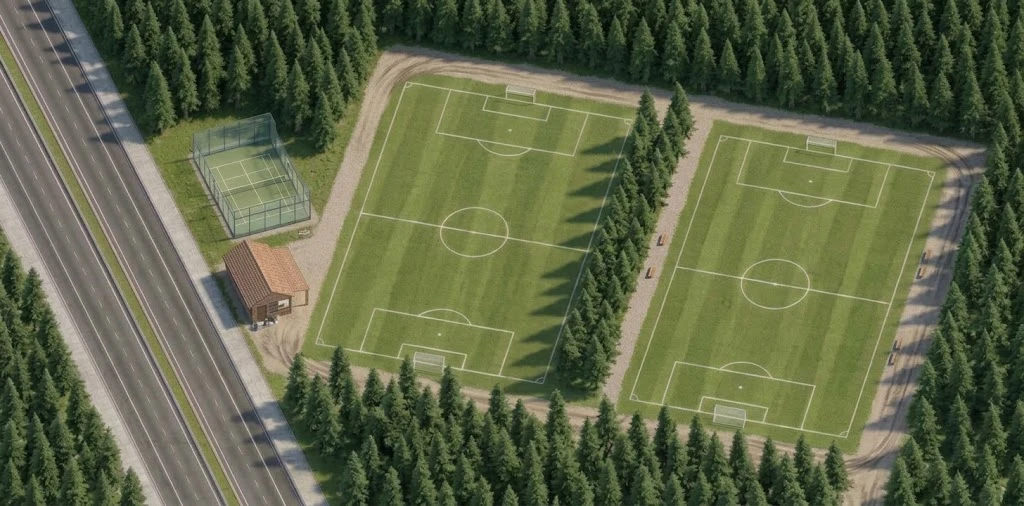
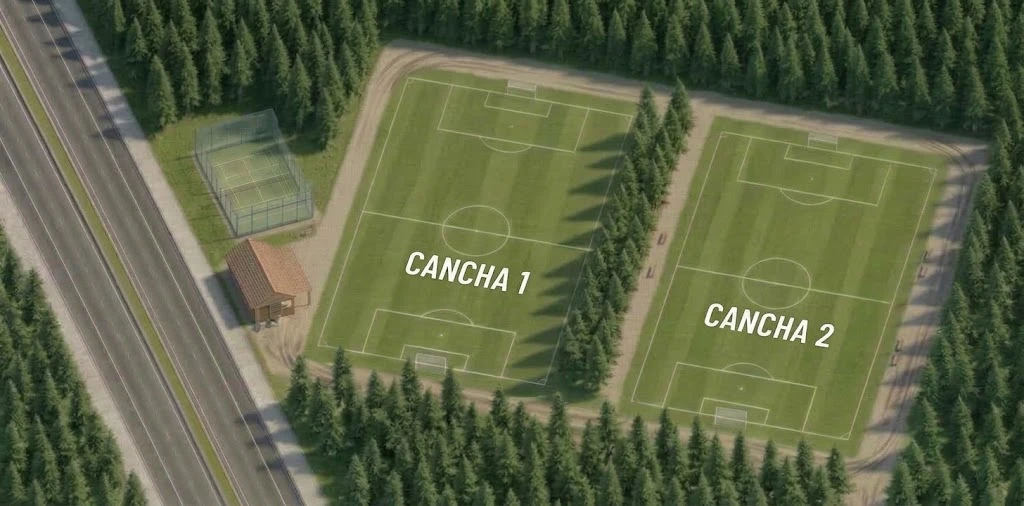
Simplificar mapa del complejo: texto de Cancha 1/2 en la imagen, sin chips
Claude-Session: https://claude.ai/code/session_01T1yuqekFoWnX7R3AsMD1Bf

diff --git a/frontend/src/styles.css b/frontend/src/styles.css
@@ -1284,19 +1284,12 @@ input[type="date"], input[type="time"] { font-family: inherit; color: var(--p-tx
   font-size: 0.62rem; letter-spacing: 0.07em; text-transform: uppercase; color: var(--s-oro-300);
 }
 
-/* mapa ilustrado del complejo, solo celular (debajo del texto "Abrimos...") */
-.mapa-complejo { display: none; }
-.mapa-complejo-tag {
-  position: absolute; transform: translate(-50%, -50%);
-  font-family: var(--s-texto); font-weight: 700; font-size: 0.62rem;
-  letter-spacing: 0.04em; text-transform: uppercase; white-space: nowrap;
-  color: var(--s-cal); background: rgba(15, 36, 54, 0.82);
-  padding: 4px 9px; border-radius: 999px; border: 1px solid rgba(242, 193, 78, 0.35);
+/* mapa ilustrado del complejo (Cancha 1 / Cancha 2), mobile y desktop */
+.mapa-complejo {
+  margin: 14px 0 0; border-radius: 14px; overflow: hidden;
+  border: 1px solid var(--s-linea-fria);
 }
-.mapa-complejo-tag--grande {
-  font-family: var(--s-titulo); font-weight: 600; font-size: 0.85rem;
-  letter-spacing: 0; text-transform: none; padding: 5px 12px;
-}
+.mapa-complejo img { display: block; width: 100%; height: auto; }
 
 @media (max-width: 940px) {
   .board-cols { grid-template-columns: 1fr; gap: 26px; }
@@ -1307,11 +1300,6 @@ input[type="date"], input[type="time"] { font-family: inherit; color: var(--p-tx
     display: block; position: relative; margin: 0 0 18px;
     border-radius: 14px; overflow: hidden; border: 1px solid var(--s-linea-fria);
   }
-  .mapa-complejo {
-    display: block; position: relative; margin: 14px 0 0;
-    border-radius: 14px; overflow: hidden; border: 1px solid var(--s-linea-fria);
-  }
-  .mapa-complejo img { display: block; width: 100%; height: auto; }
 }
 
 /* selector de canchas -> pills */

diff --git a/frontend/src/components/site/MapaComplejo.jsx b/frontend/src/components/site/MapaComplejo.jsx
@@ -1,27 +1,11 @@
-// Mapa ilustrado del complejo (pádel, cantina, cancha 1 y 2) para celular,
-// debajo del texto de "Abrimos martes, miércoles y jueves...". Solo mobile,
-// ver .mapa-complejo en styles.css.
-
-const LUGARES = [
-  { nombre: 'Pádel', left: '22%', top: '33%' },
-  { nombre: 'Cantina', left: '27%', top: '58%' },
-  { nombre: 'Cancha 1', left: '40%', top: '46%', grande: true },
-  { nombre: 'Cancha 2', left: '78%', top: '46%', grande: true },
-];
+// Mapa ilustrado del complejo (Cancha 1 / Cancha 2, ya con el texto en la
+// propia imagen). Se muestra debajo del texto de "Abrimos martes,
+// miércoles y jueves...", tanto en mobile como en desktop.
 
 export default function MapaComplejo() {
   return (
     <div className="mapa-complejo">
-      <img src="/mapa-complejo.webp" alt="Mapa del complejo: pádel, cantina y las dos canchas de fútbol 11" loading="lazy" />
-      {LUGARES.map((l) => (
-        <span
-          key={l.nombre}
-          className={`mapa-complejo-tag${l.grande ? ' mapa-complejo-tag--grande' : ''}`}
-          style={{ left: l.left, top: l.top }}
-        >
-          {l.nombre}
-        </span>
-      ))}
+      <img src="/mapa-complejo.webp" alt="Mapa del complejo: Cancha 1 y Cancha 2, con la cancha de pádel y la cantina" loading="lazy" />
     </div>
   );
 }
